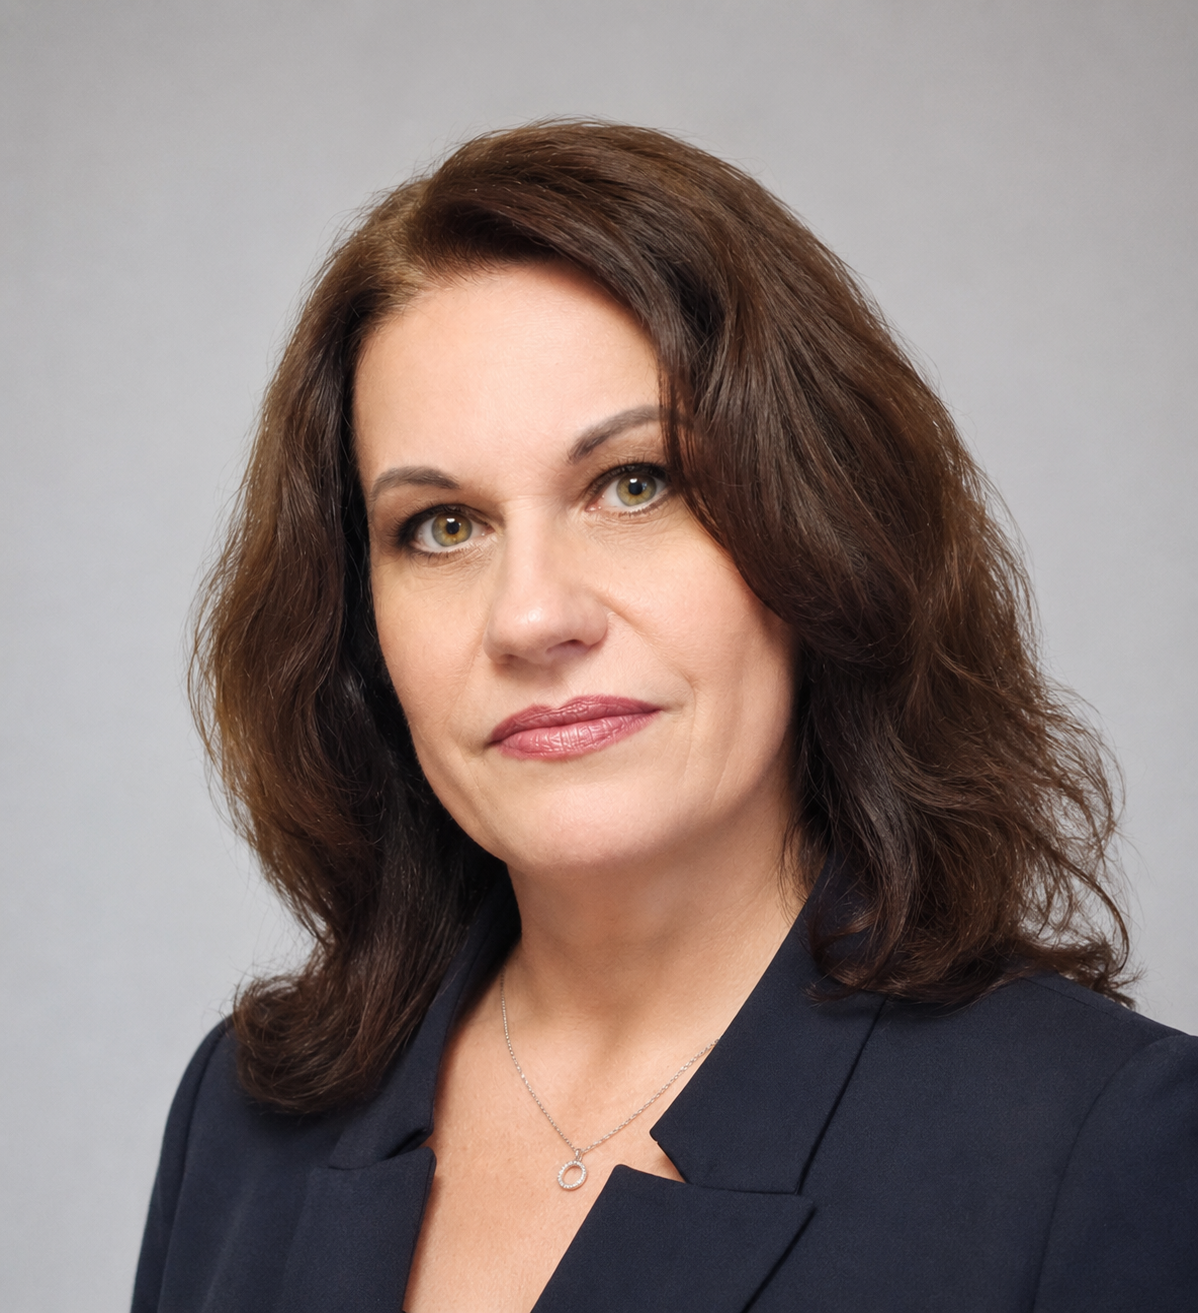
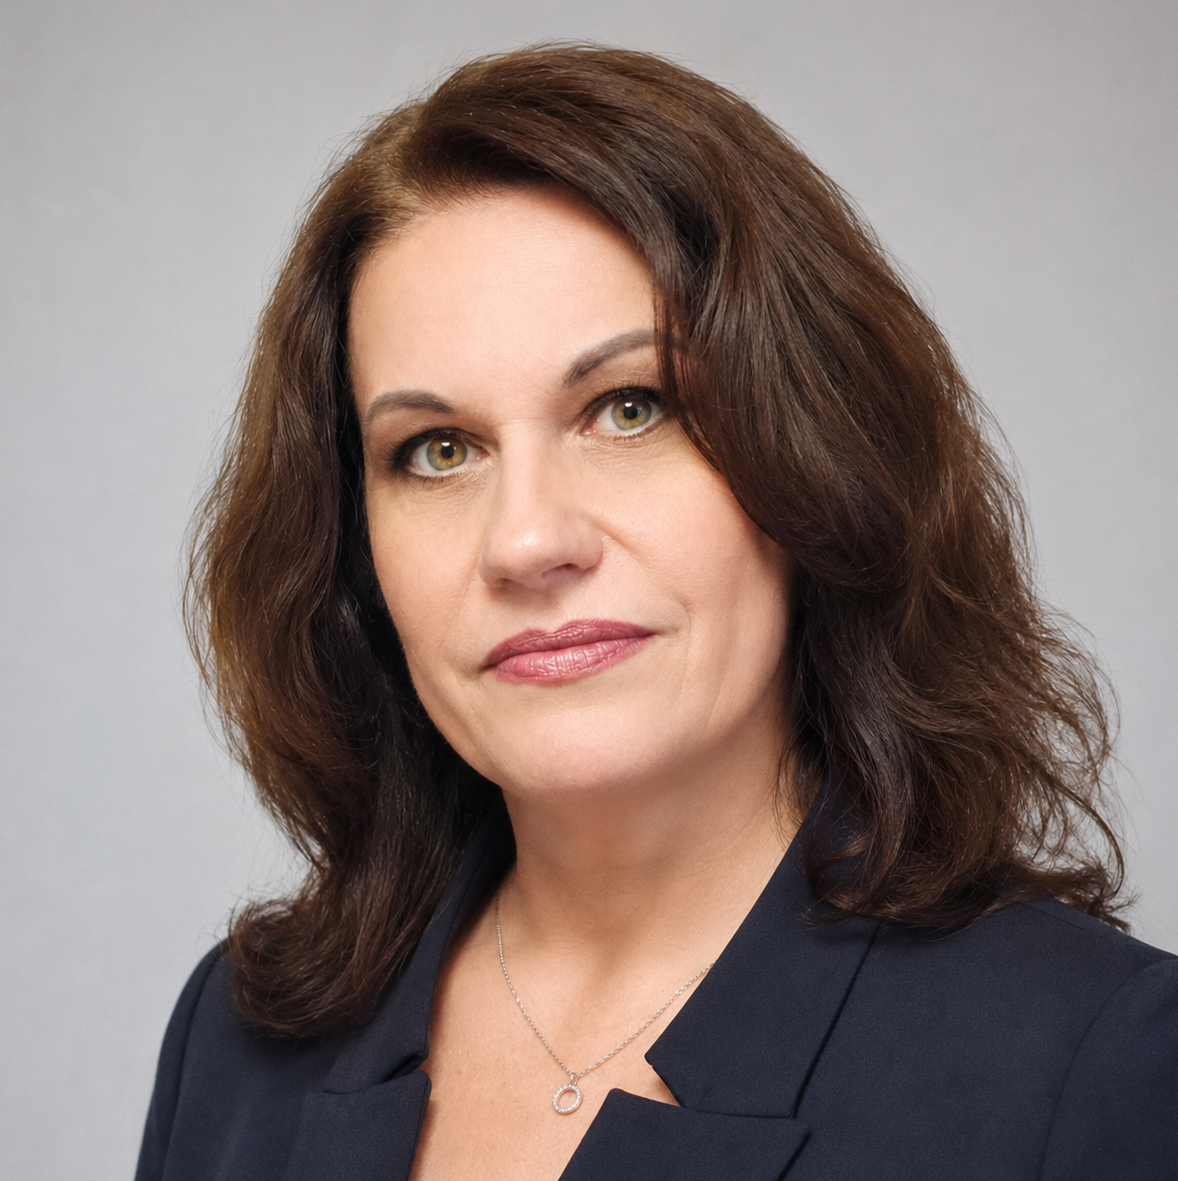
fix hair page and captcha 3

diff --git a/apps/web-app/components/auth/OtpForm.tsx b/apps/web-app/components/auth/OtpForm.tsx
@@ -27,6 +27,7 @@ export default function OtpForm() {
   const [captchaId, setCaptchaId] = useState("");
   const [captchaAnswer, setCaptchaAnswer] = useState("");
   const [mobileIdCaptcha, setMobileIdCaptcha] = useState<{ id: string; answer: string } | null>(null);
+  const [phoneSelected, setPhoneSelected] = useState(false);
   const [error, setError] = useState<string | null>(null);
   const [loading, setLoading] = useState(true);
 
@@ -141,32 +142,47 @@ export default function OtpForm() {
         autoCapitalize="characters"
         spellCheck={false}
       />
-      <div className="mt-4">
-        <MathCaptchaField
-          api={api}
-          captchaId={captchaId}
-          captchaAnswer={captchaAnswer}
-          onCaptchaIdChange={(value) => {
-            setCaptchaId(value);
-            setMobileIdCaptcha(null);
+      {!phoneSelected ? (
+        <Button
+          className="mt-4 w-full"
+          type="button"
+          onClick={() => {
+            setError(null);
+            setPhoneSelected(true);
           }}
-          onCaptchaAnswerChange={(value) => {
-            setCaptchaAnswer(value);
-            setMobileIdCaptcha(null);
-          }}
-        />
-      </div>
-      <Button
-        className="mt-3 w-full"
-        disabled={!captchaId || !captchaAnswer.trim() || loading}
-        type="button"
-        onClick={() => {
-          setError(null);
-          setMobileIdCaptcha({ id: captchaId, answer: captchaAnswer.trim() });
-        }}
-      >
-        Продолжить вход
-      </Button>
+        >
+          Войти по телефону
+        </Button>
+      ) : (
+        <>
+          <div className="mt-4">
+            <MathCaptchaField
+              api={api}
+              captchaId={captchaId}
+              captchaAnswer={captchaAnswer}
+              onCaptchaIdChange={(value) => {
+                setCaptchaId(value);
+                setMobileIdCaptcha(null);
+              }}
+              onCaptchaAnswerChange={(value) => {
+                setCaptchaAnswer(value);
+                setMobileIdCaptcha(null);
+              }}
+            />
+          </div>
+          <Button
+            className="mt-3 w-full"
+            disabled={!captchaId || !captchaAnswer.trim() || loading}
+            type="button"
+            onClick={() => {
+              setError(null);
+              setMobileIdCaptcha({ id: captchaId, answer: captchaAnswer.trim() });
+            }}
+          >
+            Продолжить вход
+          </Button>
+        </>
+      )}
       {loading ? <p className="mt-4 text-sm text-[#9a8f99]">Подключаем безопасный вход…</p> : null}
       <div className="mt-4 min-h-40" ref={widgetHost} />
       {error ? <p className="mt-3 font-normal text-[#ff1fa2]">{error}</p> : null}

diff --git a/apps/web-app/components/auth/MathCaptchaField.tsx b/apps/web-app/components/auth/MathCaptchaField.tsx
@@ -1,6 +1,6 @@
 "use client";
 
-import { useCallback, useEffect, useState } from "react";
+import { useCallback, useEffect, useRef, useState } from "react";
 import { Button } from "@wibestyle/ui";
 import { WibeStyleApiClient } from "@wibestyle/api-client";
 
@@ -26,18 +26,25 @@ export default function MathCaptchaField({
 }: MathCaptchaFieldProps) {
   const [captcha, setCaptcha] = useState<CaptchaState | null>(null);
   const [loading, setLoading] = useState(false);
+  const onCaptchaIdChangeRef = useRef(onCaptchaIdChange);
+  const onCaptchaAnswerChangeRef = useRef(onCaptchaAnswerChange);
+
+  useEffect(() => {
+    onCaptchaIdChangeRef.current = onCaptchaIdChange;
+    onCaptchaAnswerChangeRef.current = onCaptchaAnswerChange;
+  }, [onCaptchaAnswerChange, onCaptchaIdChange]);
 
   const refresh = useCallback(async () => {
     setLoading(true);
     try {
       const next = await api.getCaptcha();
       setCaptcha({ challengeId: next.challengeId, question: next.question });
-      onCaptchaIdChange(next.challengeId);
-      onCaptchaAnswerChange("");
+      onCaptchaIdChangeRef.current(next.challengeId);
+      onCaptchaAnswerChangeRef.current("");
     } finally {
       setLoading(false);
     }
-  }, [api, onCaptchaAnswerChange, onCaptchaIdChange]);
+  }, [api]);
 
   useEffect(() => {
     void refresh();
@@ -49,7 +56,7 @@ export default function MathCaptchaField({
       <p className="mt-1 text-xs font-bold text-[#6d6273]">Решите простой пример — так мы отличаем людей от ботов.</p>
       <div className="mt-3 flex flex-wrap items-center gap-2">
         <input
-          className="w-24 rounded-xl border border-[#ffd1ed] px-3 py-2 font-black outline-none focus:border-[#ff1fa2]"
+          className="w-24 rounded-xl border border-[#ffd1ed] bg-white px-3 py-2 font-normal text-[#302637] outline-none placeholder:font-normal placeholder:text-[#c8bcc8] focus:border-[#ff1fa2]"
           inputMode="numeric"
           placeholder="Ответ"
           value={captchaAnswer}

diff --git a/apps/web-app/components/auth/auth-client.test.ts b/apps/web-app/components/auth/auth-client.test.ts
@@ -23,4 +23,22 @@ describe("AuthClient", () => {
     expect(source).toContain("visible={oauthReady}");
     expect(oauthSource).toContain("finally(onProvidersResolved)");
   });
+
+  it("keeps math captcha stable while parent auth forms re-render", () => {
+    const source = readFileSync(join(process.cwd(), "components", "auth", "MathCaptchaField.tsx"), "utf8");
+    expect(source).toContain("useRef(onCaptchaIdChange)");
+    expect(source).toContain("useRef(onCaptchaAnswerChange)");
+    expect(source).toContain("}, [api]);");
+    expect(source).toContain("bg-white");
+    expect(source).toContain("placeholder:font-normal");
+    expect(source).toContain("placeholder:text-[#c8bcc8]");
+  });
+
+  it("does not show phone captcha before the user selects phone login", () => {
+    const source = readFileSync(join(process.cwd(), "components", "auth", "OtpForm.tsx"), "utf8");
+    expect(source).toContain("const [phoneSelected, setPhoneSelected] = useState(false)");
+    expect(source).toContain("!phoneSelected ? (");
+    expect(source).toContain("Войти по телефону");
+    expect(source).toContain("<MathCaptchaField");
+  });
 });
